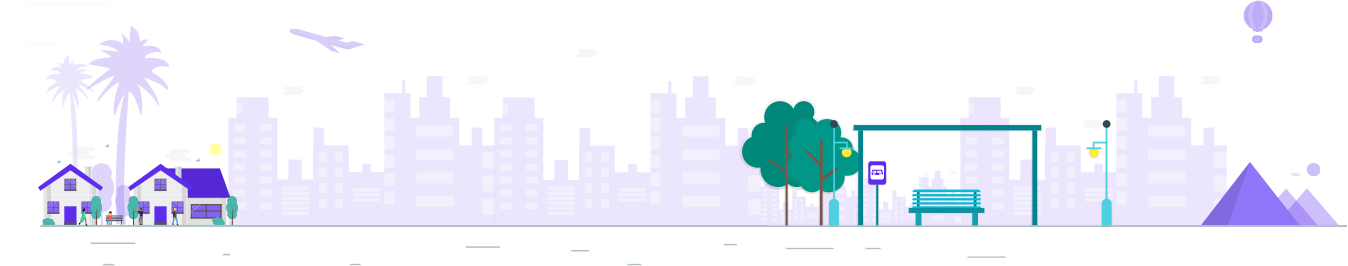
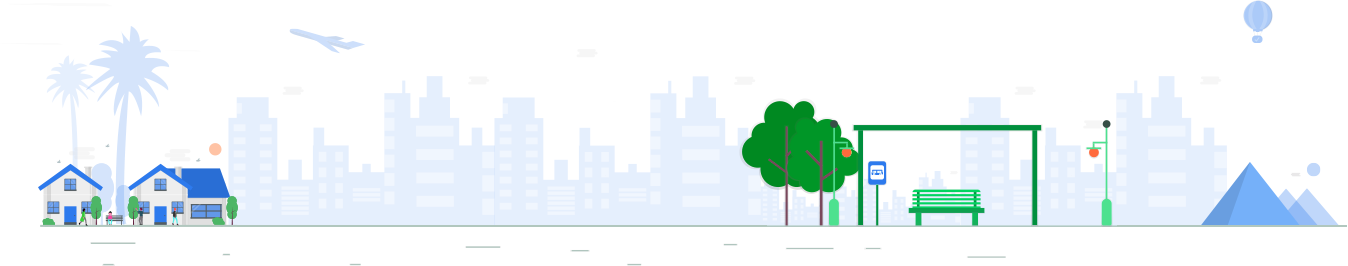
update intro page

diff --git a/CleanArch/FlashCard/wwwroot/resources/css/Intro.css b/CleanArch/FlashCard/wwwroot/resources/css/Intro.css
@@ -1,3 +1,5 @@
+@import url(https://fonts.googleapis.com/css?family=Lato:400,700|Dosis|Patrick+Hand);
+
 html,
 body,
 div,
@@ -60,7 +62,7 @@ figcaption {
   padding: 0;
   border: 0;
   outline: 0;
-  font-family: 'Open Sans', -apple-system, BlinkMacSystemFont, 'Segoe UI', Roboto, Oxygen, Ubuntu, Cantarell, 'Helvetica Neue', sans-serif;
+  font-family: Patrick Hand, 'Open Sans', -apple-system, BlinkMacSystemFont, 'Segoe UI', Roboto, Oxygen, Ubuntu, Cantarell, 'Helvetica Neue', sans-serif;
 }
 
 .clearfix:after {
@@ -107,7 +109,7 @@ hgroup {
 
 html,
 body {
-  font-family: 'Open Sans', -apple-system, BlinkMacSystemFont, 'Segoe UI', Roboto, Oxygen, Ubuntu, Cantarell, 'Helvetica Neue', sans-serif;
+  font-family: Patrick Hand, 'Open Sans', -apple-system, BlinkMacSystemFont, 'Segoe UI', Roboto, Oxygen, Ubuntu, Cantarell, 'Helvetica Neue', sans-serif;
   font-weight: 400;
   background-color: white;
   font-size: 16px;
@@ -148,7 +150,7 @@ global styles
 html,
 body {
   background: white;
-  font-family: 'Open Sans', -apple-system, BlinkMacSystemFont, 'Segoe UI', Roboto, Oxygen, Ubuntu, Cantarell, 'Helvetica Neue', sans-serif;
+  font-family: Patrick Hand, 'Open Sans', -apple-system, BlinkMacSystemFont, 'Segoe UI', Roboto, Oxygen, Ubuntu, Cantarell, 'Helvetica Neue', sans-serif;
 }
 
 ::selection {
@@ -180,7 +182,7 @@ body {
 
 a.main-button-slider {
   font-size: 20px;
-  border-radius: 15px;
+  border-radius: 5px;
   padding: 24px 40px;
   background-color: #f55858;
   color: #fff;
@@ -192,7 +194,7 @@ a.main-button-slider {
 }
 
 a.main-button-slider:hover {
-  background-color: #00e88f;
+  background-color: #ce4646;
 }
 
 a.main-button {
@@ -255,7 +257,7 @@ header
 */
 
 .background-header {
-  background-color: #fff;
+  background-color: #1572E8;
   height: 80px !important;
   position: fixed !important;
   top: 0px;
@@ -266,7 +268,7 @@ header
 
 .background-header .logo,
 .background-header .main-nav .nav li a {
-  color: #1e1e1e !important;
+  color: white !important;
 }
 
 .background-header .main-nav .nav > li:hover > a {
@@ -324,6 +326,7 @@ header
   transition: all 0.3s ease 0s;
   position: relative;
   z-index: 999;
+  border-bottom: 0;
 }
 
 .header-area .main-nav .nav li {
@@ -359,17 +362,7 @@ header
   position: relative;
   padding-right: 35px;
 }
-/*
-.header-area .main-nav .nav li.submenu:after {
-  font-family: FontAwesome;
-  content: "\f107";
-  font-size: 12px;
-  color: #fff;
-  position: absolute;
-  right: 18px;
-  top: 12px;
-}
-*/
+
 .header-area.background-header .main-nav .nav li.submenu:after {
   color: #000;
 }
@@ -681,18 +674,18 @@ welcome
   position: relative;
   display: flex;
   align-items: center;
-  justify-content: center;
-  background-image: url(../images/banner-bg.png);
+  justify-content: center;  
+  background-color: #1572E8;
   background-repeat: no-repeat;
   background-size: cover;
   width: 100%;
-  height: 105vh;
+  height: 102vh;
   margin-top: -10vh;
 }
 
 .welcome-area .header-text {
   position: absolute;
-  top: 55%;
+  top: 60%;
   transform: translateY(-60%);
   text-align: left;
   width: 100%;
@@ -713,11 +706,11 @@ welcome
 
 .welcome-area .header-text p {
   font-weight: 300;
-  font-size: 17px;
+  font-size: 1.7em;
   color: #fff;
   line-height: 30px;
   letter-spacing: 0.25px;
-  margin-bottom: 40px;
+  margin-bottom: 100px;
   position: relative;
 }
 
@@ -784,10 +777,52 @@ welcome
     line-height: 22px;
     margin-bottom: 40px;
   }
-  .welcome-area .header-text img {
-    width: 80%;
-    margin-top: 20px;
+}
+.font-img-1{
+  position: absolute;
+  z-index: 2;
+}
+
+.font-img-2{
+  position: absolute;
+  z-index: 3;
+}
+
+.back-img{
+  position: absolute;
+  z-index: 1;
+}
+
+.rotateAndFloatAnimate {
+  animation: rotationFloat 4s ease-in-out infinite;
+}
+
+.floatAnimate {
+  animation: float 4s ease-in-out infinite;
+}
+
+@keyframes float {
+	0% {
+		transform: translatey(0px);
+	}
+	50% {
+		transform: translatey(-40px);
   }
+	100% {
+		transform: translatey(0px);
+	}
+}
+
+@keyframes rotationFloat {
+	0% {
+    transform: translatey(0px) rotate(5deg);
+	}
+	50% {
+    transform: translatey(-40px) rotate(-20deg);
+  }
+	100% {
+    transform: translatey(0px) rotate(5deg);
+	}
 }
 
 /* 
@@ -816,9 +851,16 @@ body {
   font-size: 14px;
   font-weight: 300;
   line-height: 20px;
-  color: #7f88a6;
   padding: 27px 0px;
+  background-color: #1572E8;
 }
+
+.footer_bottom p{
+  margin-top: 35px;
+  font-size: 2em;
+  color: white;
+}
+
 .new_footer_top .company_widget p {
   font-size: 16px;
   font-weight: 300;
@@ -830,14 +872,15 @@ body {
   border-width: 1px;
   margin-top: 20px;
 }
+
 .btn_get_two:hover {
   background: transparent;
-  color: #5e2ced;
+  color: #1572E8;
 }
 .btn_get:hover {
   color: #fff;
-  background: #6754e2;
-  border-color: #6754e2;
+  background: #5397f0;
+  border-color: #5397f0;
   -webkit-box-shadow: none;
   box-shadow: none;
 }
@@ -847,7 +890,7 @@ a:hover, a:focus, .btn:hover, .btn:focus, button:hover, button:focus {
 }
 
 .new_footer_top .f_widget.about-widget .f_list li a:hover {
-  color: #5e2ced;
+  color: #1572E8;
 }
 .new_footer_top .f_widget.about-widget .f_list li {
   margin-bottom: 11px;
@@ -899,19 +942,19 @@ a:hover, a:focus, .btn:hover, .btn:focus, button:hover, button:focus {
 .btn_get_two {
   -webkit-box-shadow: none;
   box-shadow: none;
-  background: #5e2ced;
-  border-color: #5e2ced;
+  background: #1572E8;
+  border-color: #1572E8;
   color: #fff;
 }
 
 .btn_get_two:hover {
   background: transparent;
-  color: #5e2ced;
+  color: #1572E8;
 }
 
 .new_footer_top .f_social_icon a:hover {
-  background: #5e2ced;
-  border-color: #5e2ced;
+  background: #1572E8;
+  border-color: #1572E8;
 color:white;
 }
 .new_footer_top .f_social_icon a + a {
@@ -944,7 +987,7 @@ color:white;
   background: url("../images/volks.gif") no-repeat center center;
   width: 330px;
   height: 105px;
-background-size:100%;
+  background-size:100%;
   position: absolute;
   bottom: 0;
   left: 30%;
@@ -956,7 +999,7 @@ background-size:100%;
   background: url("../images/cyclist.gif") no-repeat center center;
   width: 88px;
   height: 100px;
-background-size:100%;
+  background-size:100%;
   bottom: 0;
   left: 38%;
   position: absolute;
@@ -1075,54 +1118,16 @@ preloader
   }
 }
 
+/* 
+---------------------------------------------
+extend
+--------------------------------------------- 
+*/
+
 .modal-header-primary {
     padding:9px 15px;
     border-bottom:1px solid #eee;
-    background: rgba(0, 136, 232, 1);
-  background: -moz-linear-gradient(
-    -45deg,
-    rgba(0, 136, 232, 1) 0%,
-    rgba(0, 182, 198, 1) 0%,
-    rgba(0, 136, 232, 1) 100%
-  );
-  background: -webkit-gradient(
-    left top,
-    right bottom,
-    color-stop(0%, rgba(0, 136, 232, 1)),
-    color-stop(0%, rgba(0, 182, 198, 1)),
-    color-stop(100%, rgba(0, 136, 232, 1))
-  );
-  background: -webkit-linear-gradient(
-    -45deg,
-    rgba(0, 136, 232, 1) 0%,
-    rgba(0, 182, 198, 1) 0%,
-    rgba(0, 136, 232, 1) 100%
-  );
-  background: -o-linear-gradient(
-    -45deg,
-    rgba(0, 136, 232, 1) 0%,
-    rgba(0, 182, 198, 1) 0%,
-    rgba(0, 136, 232, 1) 100%
-  );
-  background: -ms-linear-gradient(
-    -45deg,
-    rgba(0, 136, 232, 1) 0%,
-    rgba(0, 182, 198, 1) 0%,
-    rgba(0, 136, 232, 1) 100%
-  );
-  background: linear-gradient(
-    135deg,
-    rgba(0, 136, 232, 1) 0%,
-    rgba(0, 182, 198, 1) 0%,
-    rgba(0, 136, 232, 1) 100%
-  );
-  filter: progid:DXImageTransform.Microsoft.gradient( startColorstr='#0088e8', endColorstr='#0088e8', GradientType=1 );
-    -webkit-border-top-left-radius: 5px;
-    -webkit-border-top-right-radius: 5px;
-    -moz-border-radius-topleft: 5px;
-    -moz-border-radius-topright: 5px;
-     border-top-left-radius: 5px;
-     border-top-right-radius: 5px;
+    background-color: #1572E8;
 }
 
 .modal-header {
@@ -1167,3 +1172,12 @@ preloader
 	-o-transition: all 0.2s ease-in;
 	transition: all 0.2s ease-in;
   }
+
+.Get_App a img:hover{
+  transform: scale(1.03);
+  -webkit-transition: all 0.3s ease-in;
+	-moz-transition: all 0.3s ease-in;
+	-ms-transition: all 0.3s ease-in;
+	-o-transition: all 0.3s ease-in;
+	transition: all 0.3s ease-in;
+}
